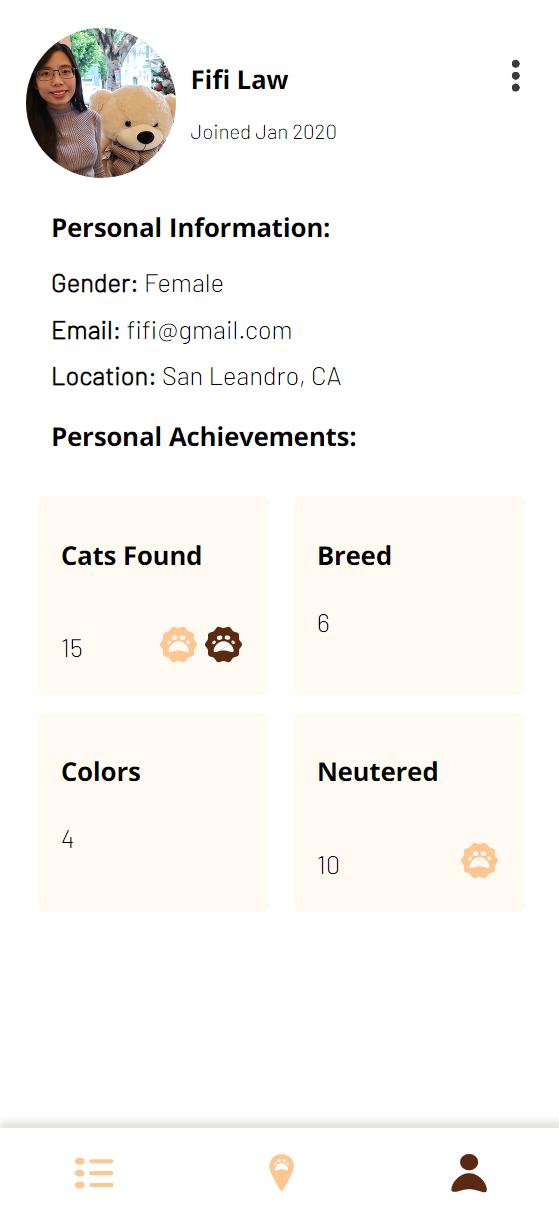
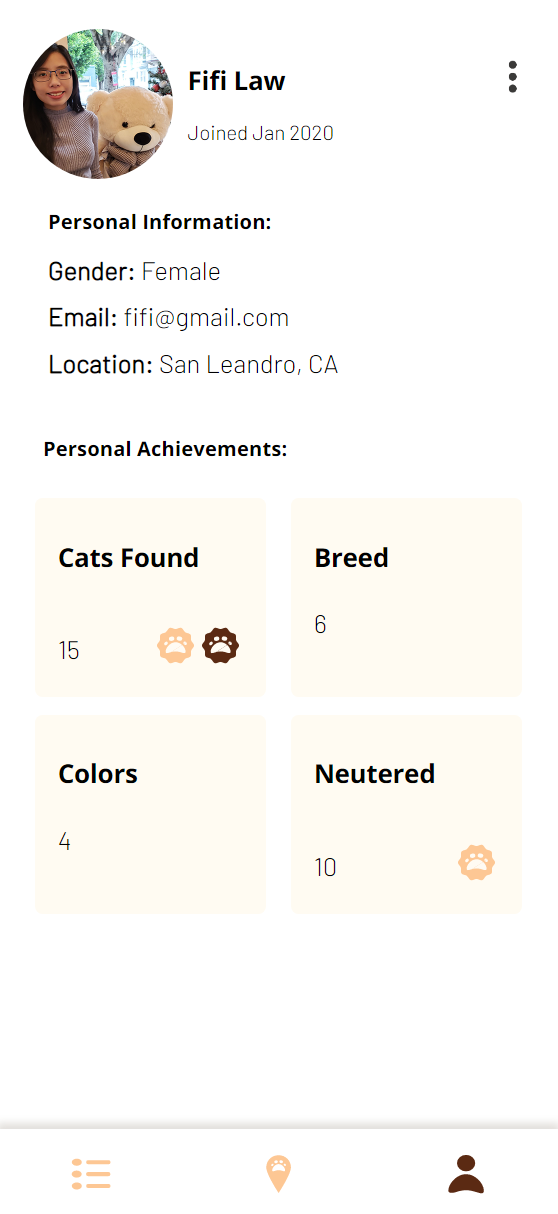
replaced screenshots

diff --git a/law.fifi/index.html b/law.fifi/index.html
@@ -255,12 +255,12 @@
 					</div>
 				</div>
 				<div class="user-profile-detail">
-					<h4>Personal Information:</h4>
+					<h4 style="font-size: 0.8em;">Personal Information:</h4>
 					<p><span>Gender:</span> Female</p>
 					<p><span>Email:</span> fifi@gmail.com</p>
 					<p><span>Location:</span> San Leandro, CA</p>
 				</div>
-					<h4 style="    margin-left: 1em;">Personal Achievements:</h4>
+					<h4 style=" margin-top: 3em;font-size: 0.8em;   margin-left: 1em;">Personal Achievements:</h4>
 				<div class="display-flex space-around" style="flex-wrap: wrap;">
 
 					<div class="user-achievement">
